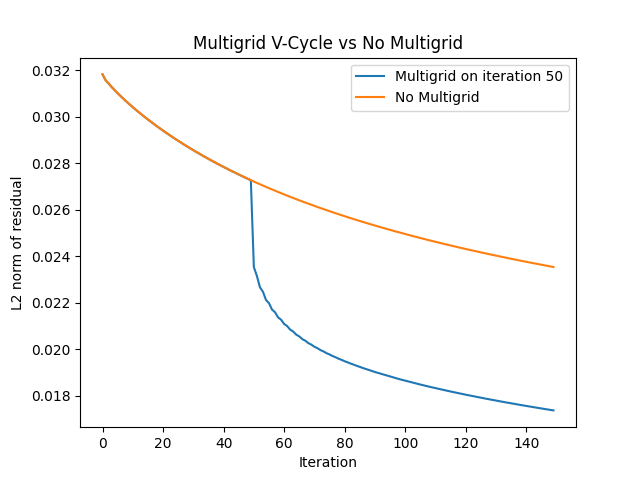
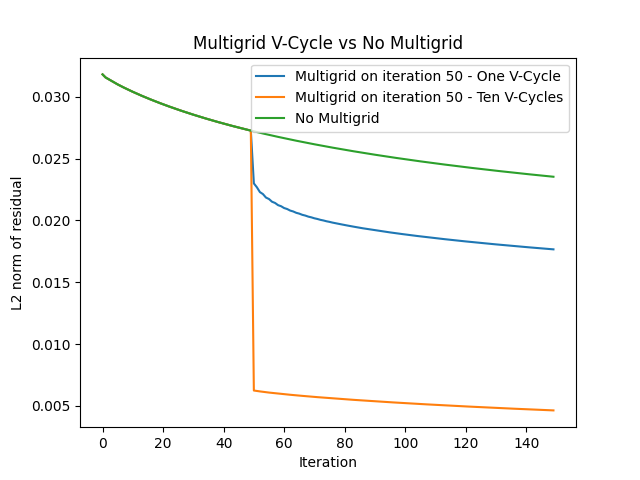
Added multiple v-cycles

diff --git a/main.py b/main.py
@@ -30,17 +30,33 @@ nm_solver = NumericalSolver(A, b, n=50)
 phase1_x, phase1_norms = nm_solver.jacobi()
 
 # Phase II: Multigrid cycle
+# One V-Cycle
 solver = Solver(A, b, initial_guess=phase1_x)
-x = solver.solve(number_of_levels=5)
+x_single_cycle = solver.solve(number_of_levels=10)
+# Multiple V-Cycles
+x_multiple_cycles = phase1_x
+for _ in range(10):
+    solver = Solver(A, b, initial_guess=x_multiple_cycles)
+    x_multiple_cycles = solver.solve(number_of_levels=10)
+    x_multiple_cycles, _ = NumericalSolver(
+        A, b, n=5, x=x_multiple_cycles).jacobi()
 
 # Phase III: More jacobi iterations, so we could see multigrid process
 #            more clearly.
-nm_solver = NumericalSolver(A, b, n=100, x=x)
-x, norms = nm_solver.jacobi()
+nm_solver = NumericalSolver(A, b, n=100, x=x_single_cycle)
+x, norms_single_v_cycle = nm_solver.jacobi()
+
+nm_solver = NumericalSolver(A, b, n=100, x=x_multiple_cycles)
+x, norms_multiple_v_cycles = nm_solver.jacobi()
 
 # Plotting the result of multigrid solver
-norms = [*phase1_norms, *norms]
-plt.plot(range(len(norms)), norms, label='Multigrid on iteration 50')
+norms_single_cycle = [*phase1_norms, *norms_single_v_cycle]
+plt.plot(range(len(norms_single_cycle)), norms_single_cycle,
+         label='Multigrid on iteration 50 - One V-Cycle')
+
+norms_single_cycle = [*phase1_norms, *norms_multiple_v_cycles]
+plt.plot(range(len(norms_single_cycle)), norms_single_cycle,
+         label='Multigrid on iteration 50 - Ten V-Cycles')
 
 
 # Phase IV: A simple jacobi solver with the same number of total iterations
